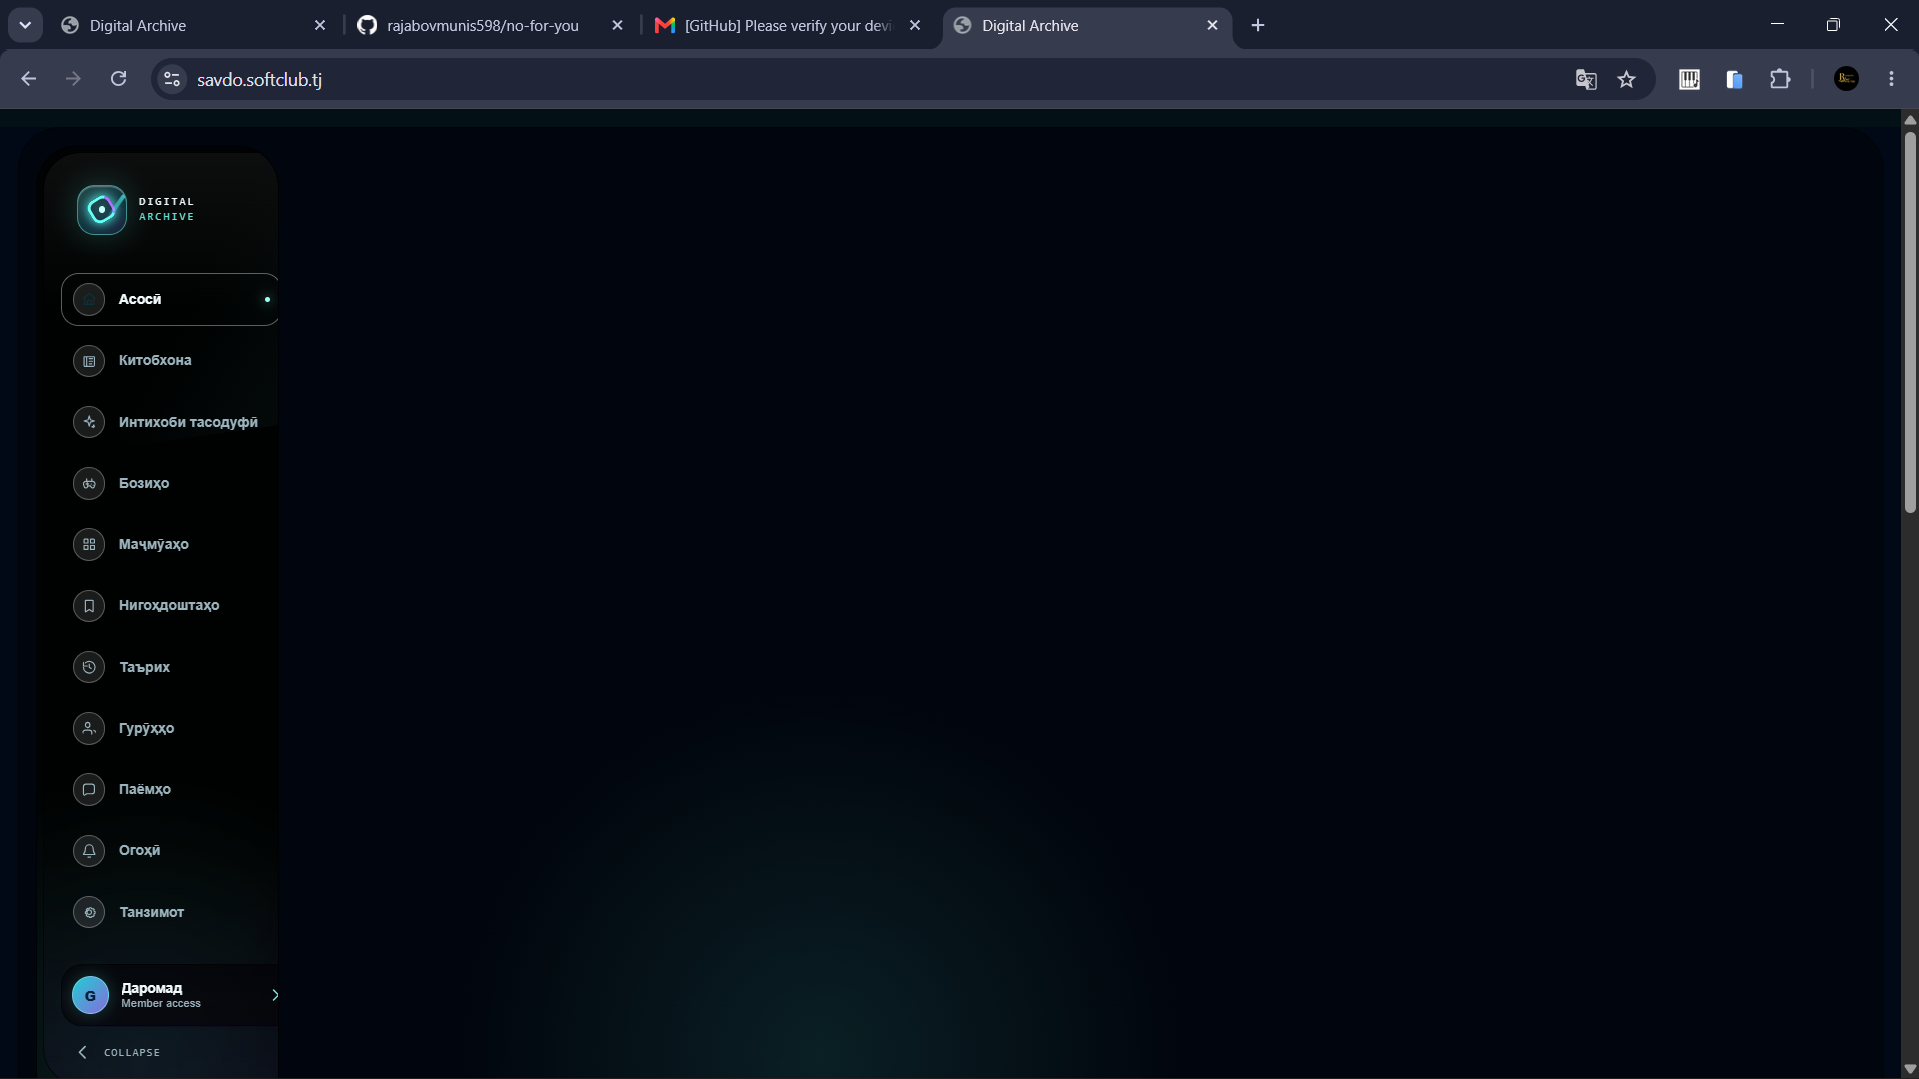
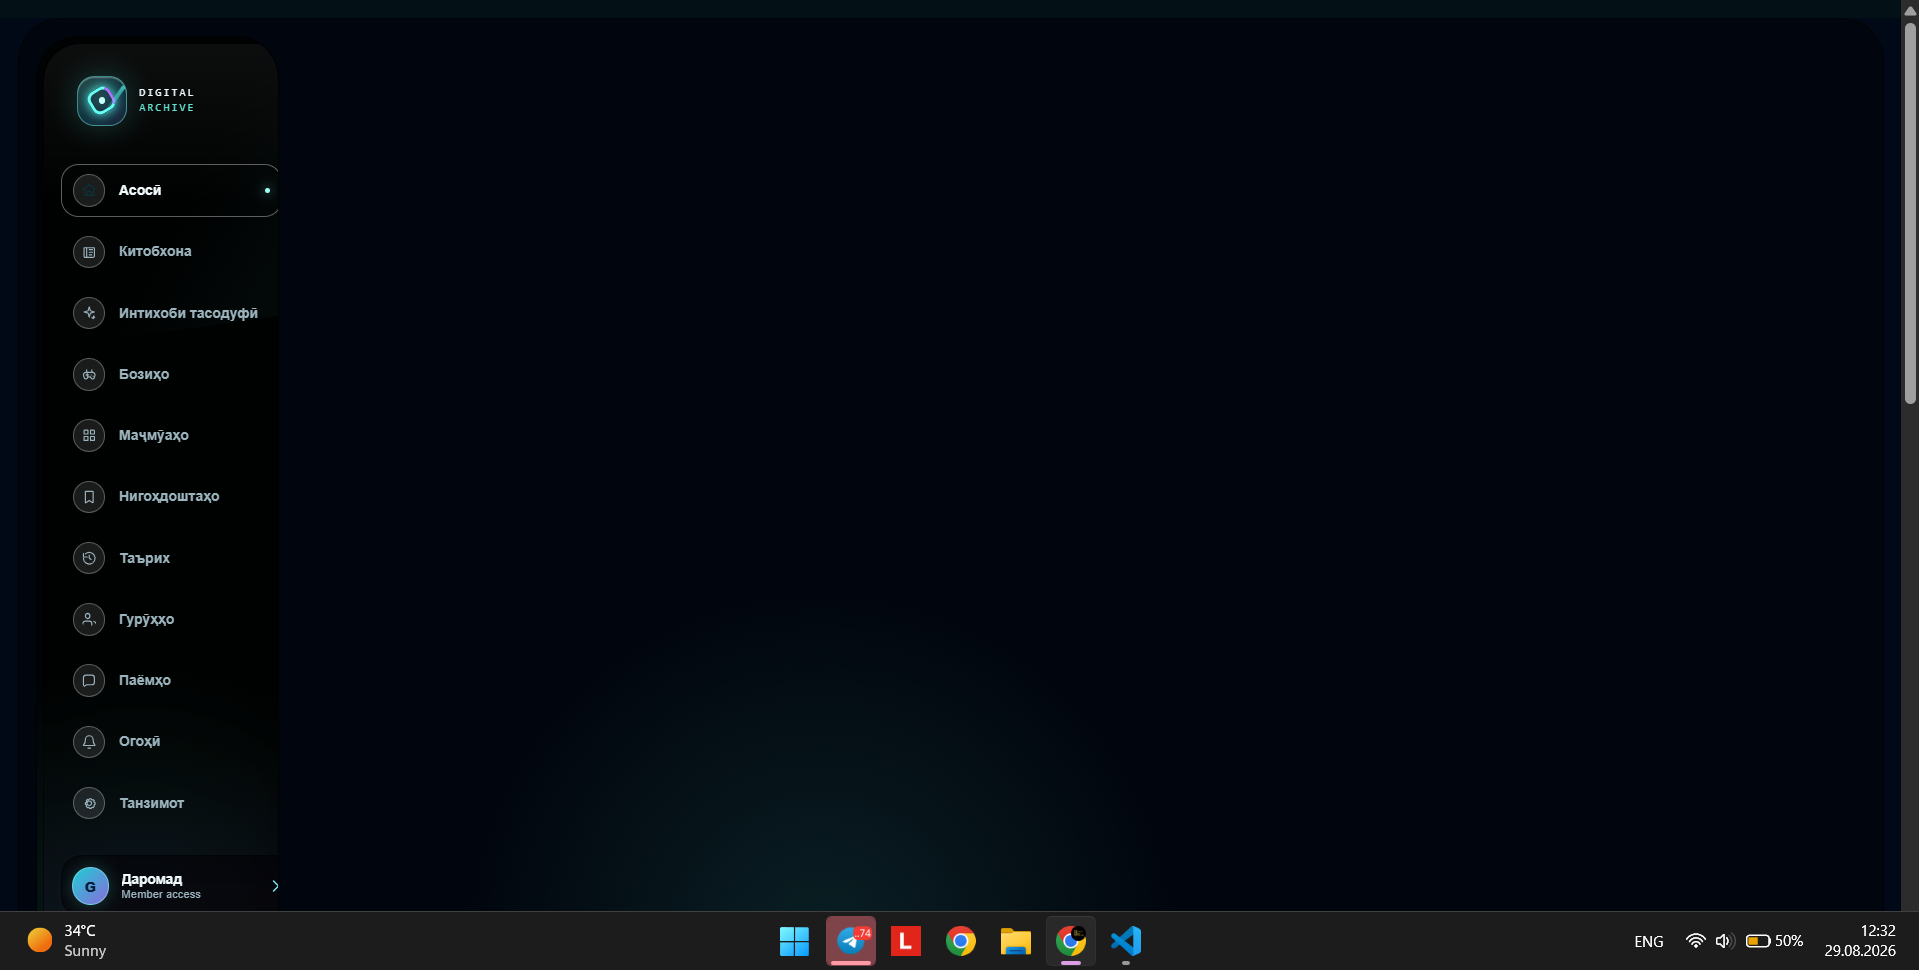
restore light and dark background assets

diff --git a/archive-web/src/app/theme-layer.css b/archive-web/src/app/theme-layer.css
@@ -133,7 +133,7 @@ html[data-theme='light'] :is(.archive-app,.sidebar,.panel,.message-shell,.hero-p
 html[data-theme='light'] :is(h1,h2,h3,h4,p,b,small,span,label,button,input,textarea,select,.eyebrow,.book-category,.text-action,.soft-button,.verified,.online-pill){color:#101820!important}
 html[data-theme='light'] input::placeholder,html[data-theme='light'] textarea::placeholder{color:#4c5d63!important}
 /* Light mode uses the supplied static image; no video asset is needed. */
-html[data-theme='light'] body::before{content:"";position:fixed;z-index:-5;inset:0;pointer-events:none;background:url('/static/images/image.png?v=2') center/cover no-repeat!important;opacity:1!important;filter:none!important;animation:none!important;transform:none!important;will-change:auto!important}
+html[data-theme='light'] body::before{content:"";position:fixed;z-index:-5;inset:0;pointer-events:none;background:url('/static/images/light%20mode.webp?v=3') center/cover no-repeat!important;opacity:1!important;filter:none!important;animation:none!important;transform:none!important;will-change:auto!important}
 html[data-theme='light'] .archive-app{background:rgba(235,244,243,.48)!important}
 html[data-theme='light'] :is(.panel,.message-shell,.hero-panel,.library-hero,.profile-cover,.profile-form,.profile-summary,.setting-panel,.circle-card,.collection-card,.alert-row,.continue-panel,.mini-stat,.random-picker,.result-card,.quiz-shell,.game-hero){background:rgba(224,236,235,.92)!important;border-color:rgba(25,75,79,.34)!important;color:#17363b!important}
 html[data-theme='light'] :is(.top-search,.language-select,.bell-button,.wide-search,.sort-select,.filter-chip,.auth-modal,.book-modal,.form-grid input,.form-grid textarea,.auth-modal input,.message-composer input,.setting-select select,.theme-picker>div){background:rgba(219,232,231,.96)!important;border-color:rgba(25,75,79,.38)!important;color:#17363b!important}

diff --git a/static/css/performance.css b/static/css/performance.css
@@ -7,7 +7,7 @@ html[data-theme='light'] body::before {
   z-index: -5;
   inset: 0;
   pointer-events: none;
-  background: url('/static/images/image.png?v=2') center/cover no-repeat !important;
+  background: url('/static/images/light%20mode.webp?v=3') center/cover no-repeat !important;
   opacity: 1 !important;
   filter: none !important;
   animation: none !important;
